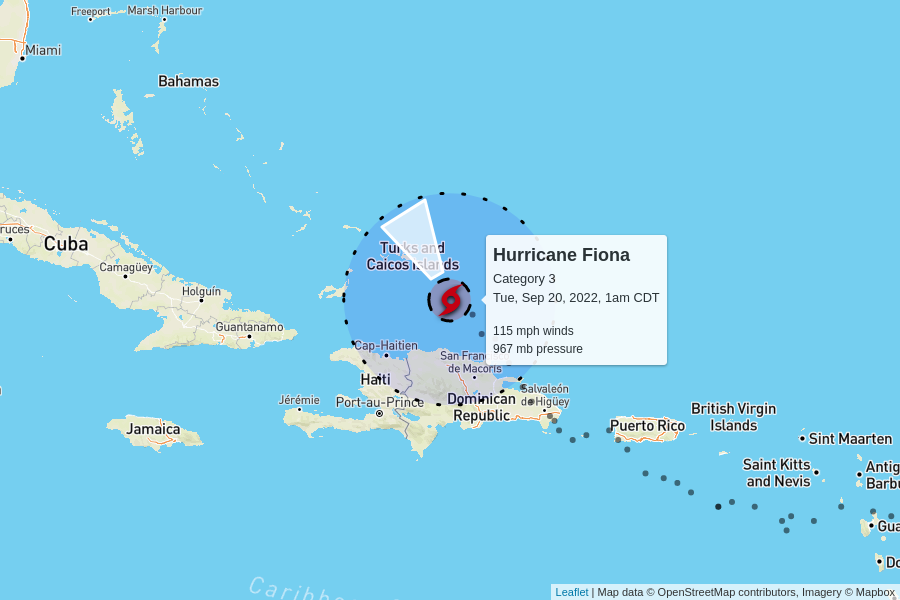
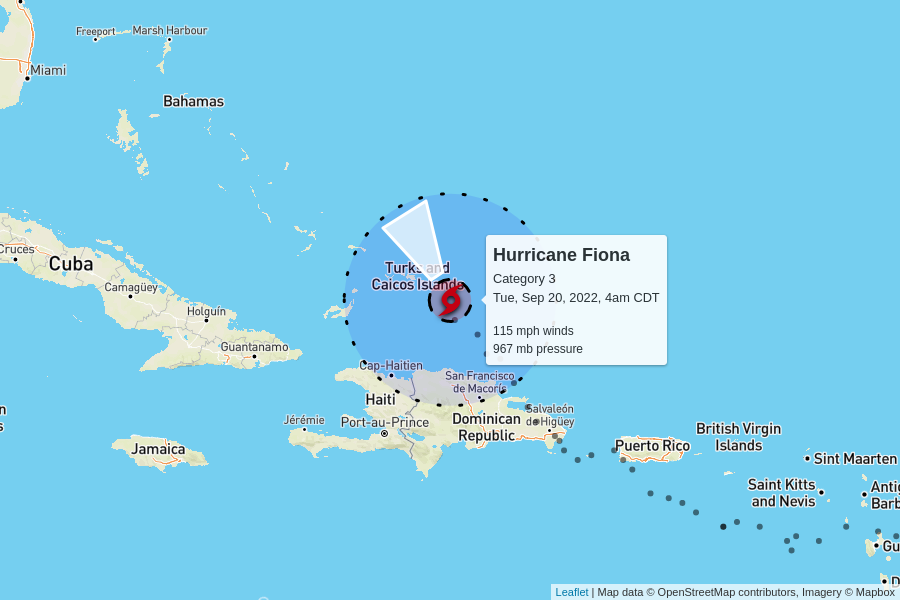
automatic update

diff --git a/docs/index.html b/docs/index.html
@@ -100,7 +100,7 @@
         <td colspan="6" class="storm category-3" >
           <h2>
             Hurricane Fiona - Category 3
-            <p class="updated">last updated <span data-time>2022-09-20T06:00:00.000Z</span></p>
+            <p class="updated">last updated <span data-time>2022-09-20T09:00:00.000Z</span></p>
           </h2>
         </td>
       </tr>
